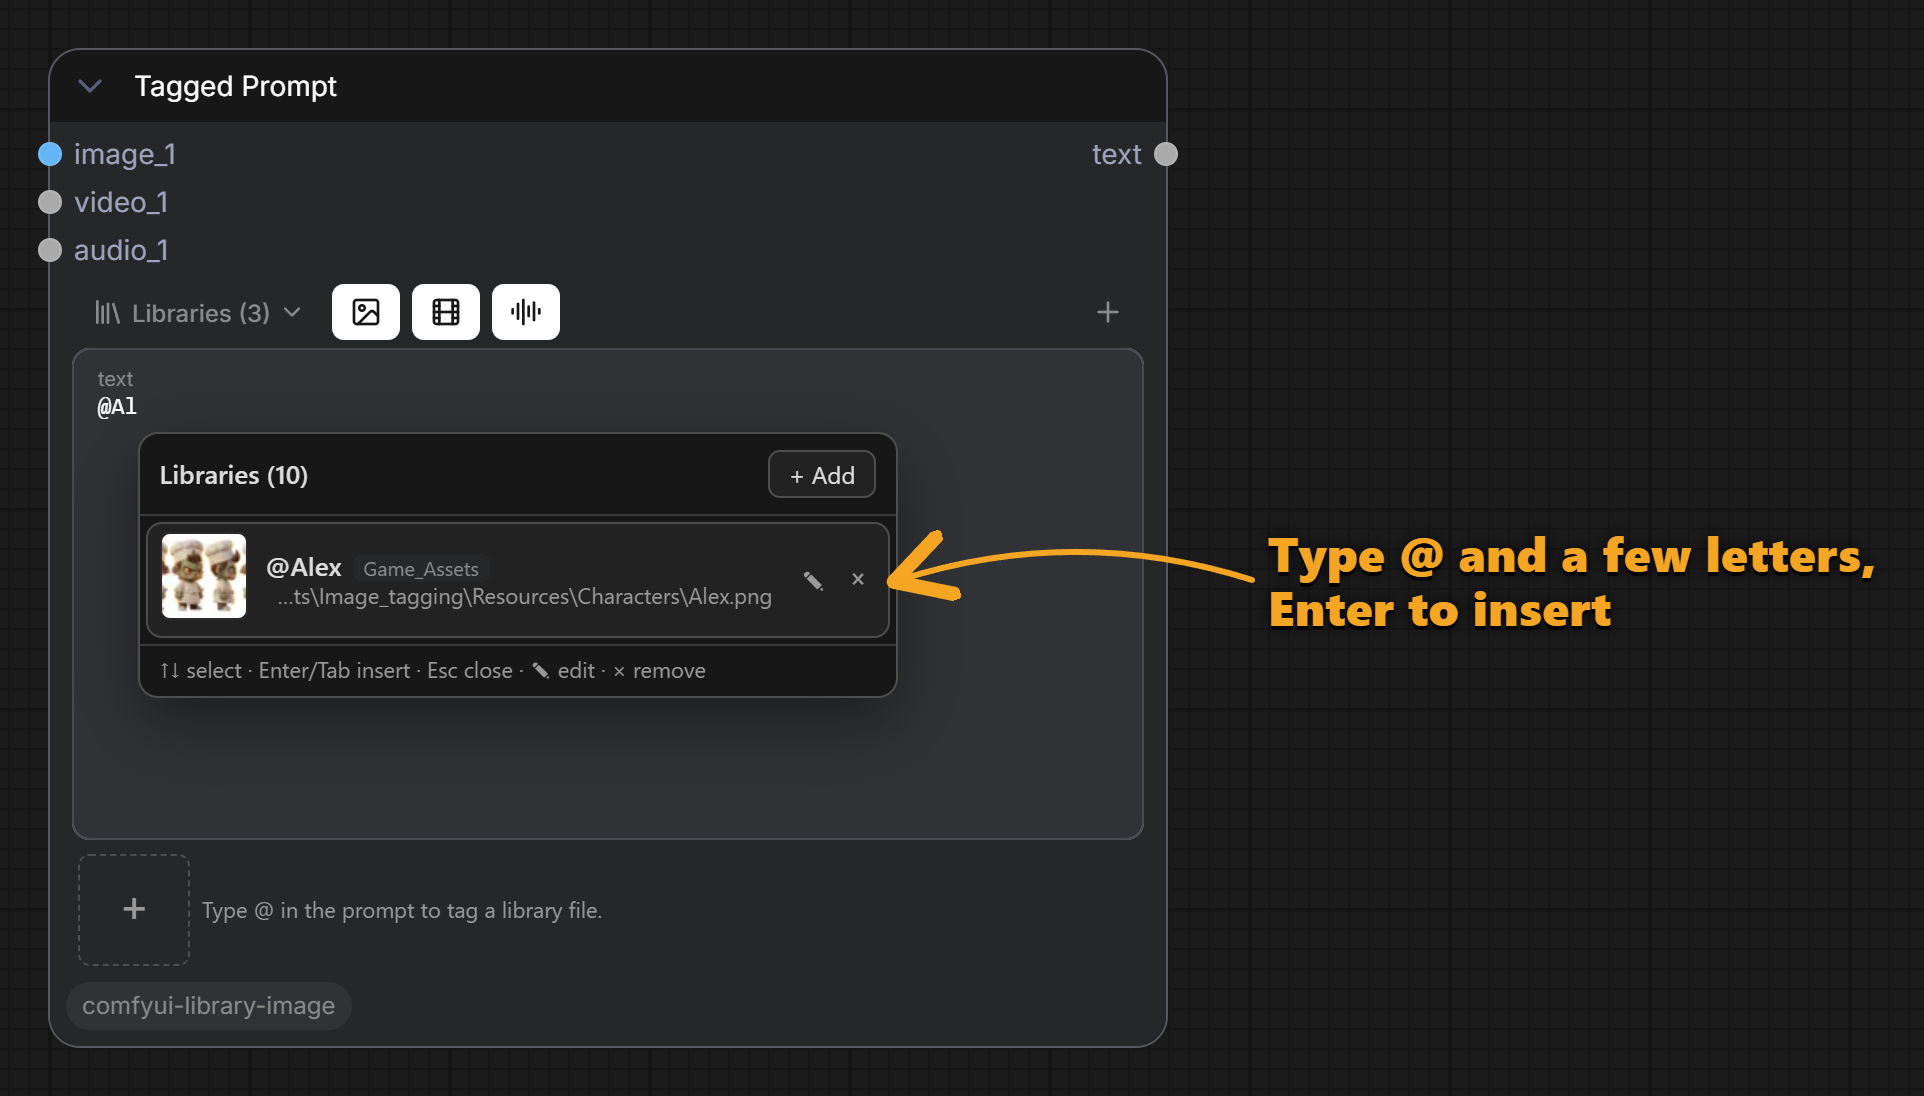
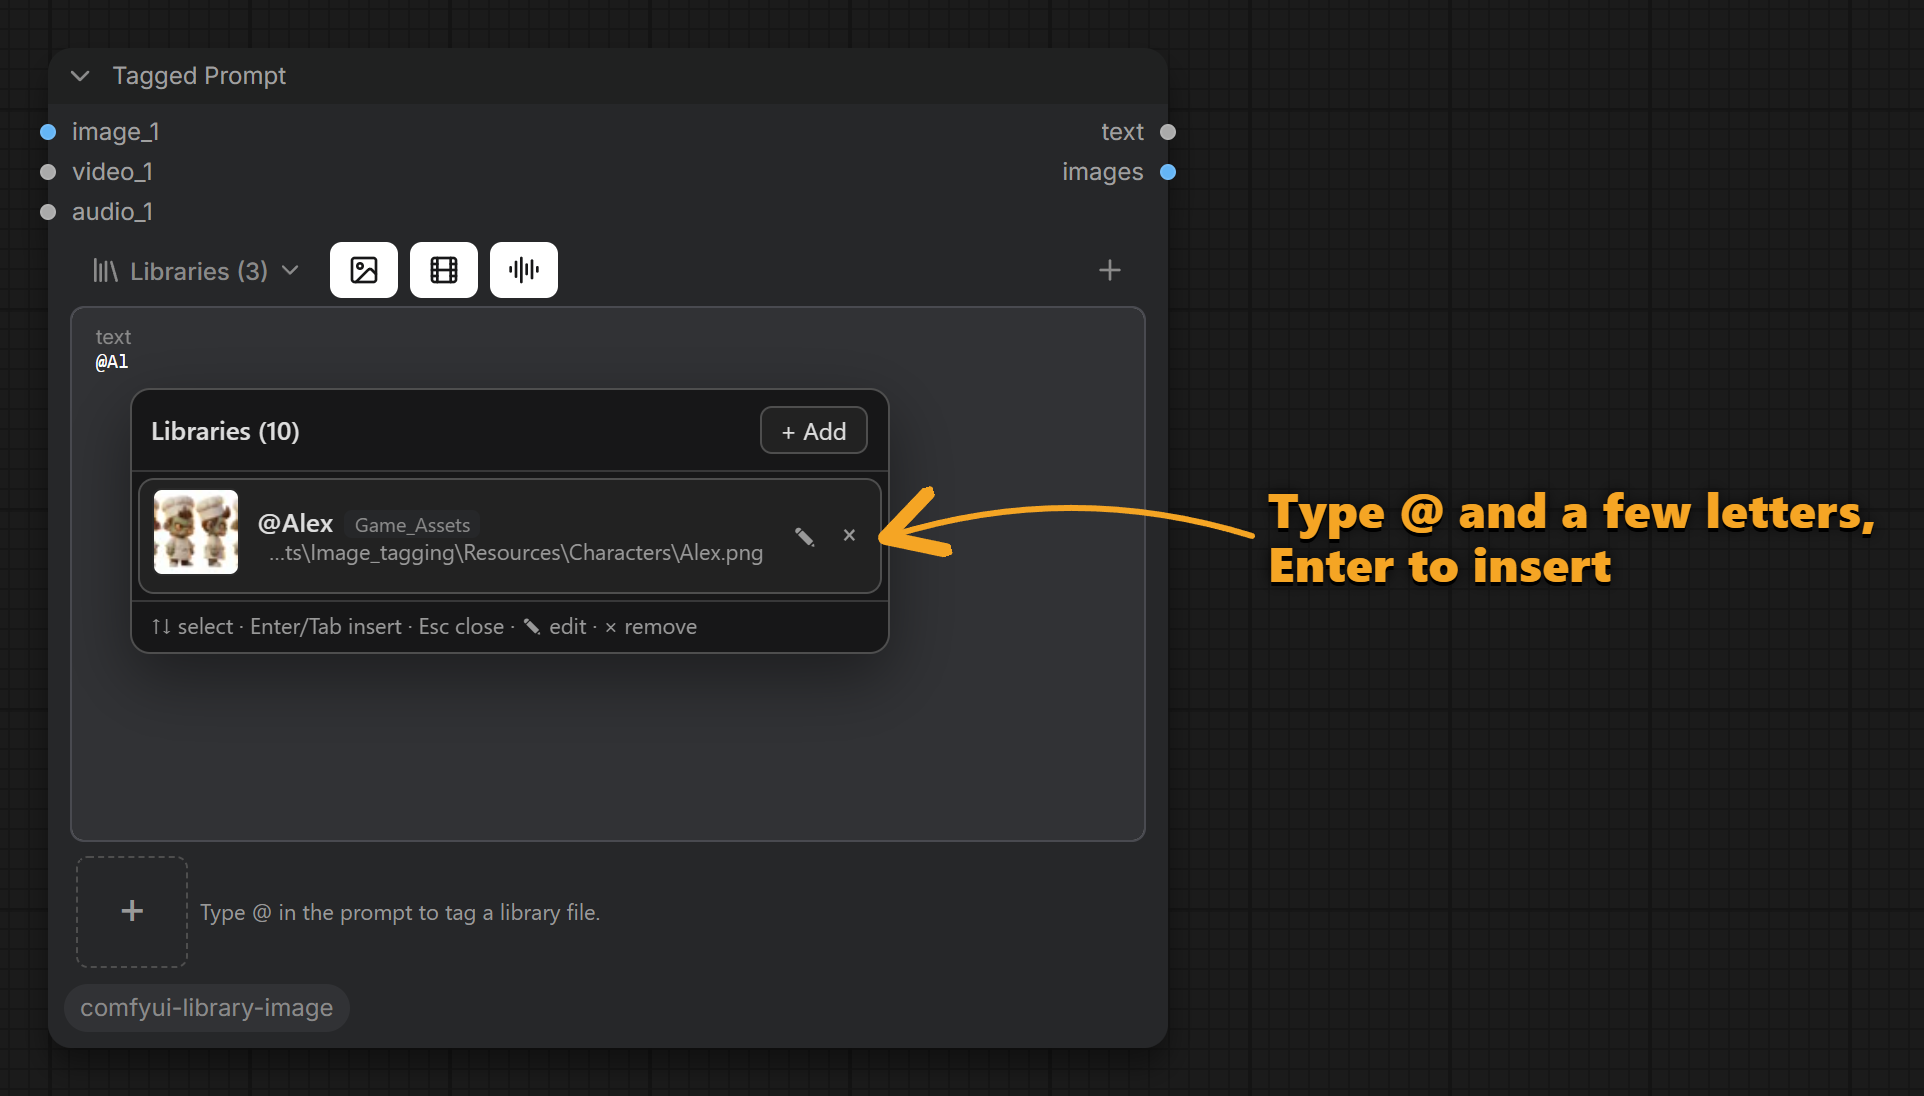
README: older models with one image input (Nano Banana Pro)
New section on wiring text -> prompt and images -> images, with
screenshot 13. Screenshots 00-12 re-rendered with the current frontend.

diff --git a/README.md b/README.md
@@ -34,6 +34,7 @@ the same two nodes, however many references you use.
 - [Tag colors](#tag-colors)
 - [What happens when you queue](#what-happens-when-you-queue)
 - [Supported model nodes](#supported-model-nodes)
+- [Older models with one image input](#older-models-with-one-image-input)
 - [Files that aren't in a library](#files-that-arent-in-a-library)
 - [Outputs: every tagged file, and a batch](#outputs-every-tagged-file-and-a-batch)
 - [Libraries in detail](#libraries-in-detail)
@@ -199,13 +200,38 @@ Reference-to-video nodes (Seedance, MiniMax H3, Vidu, HeyGen) are told `Image 1`
 `Audio 1`; the others `image 1`.
 
 **Models with one `images` batch input** (Nano Banana Pro, Nano Banana, …): connect the Tagged Prompt's
-`images` output too, see [Outputs](#outputs-every-tagged-file-and-a-batch).
+`images` output too, see [Older models with one image input](#older-models-with-one-image-input).
 
 **Not supported:** nodes with a single image input, or one batch input, such as **LTX 2.5** (API: Image /
 Audio to Video), the **LTX-2** open-model nodes, and the **MiniMax H3** open model (Reference to Video takes
 `ref_images` as one batch). Wire files into those by hand (the `@name` outputs help), or try the `images`
 batch output where the model accepts a batch. A Tagged Prompt with `@tags` whose text reaches only such a
 node, with none of its outputs used, won't queue rather than send raw tags.
+
+## Older models with one image input
+
+Using an old reliable model like **Nano Banana Pro**, with just one `images` input? No problem. These
+models take all their reference images as one batch, so the Tagged Prompt can't fill their inputs on its
+own. That's what its **`images`** output is for. Connect two wires:
+
+1. **`text`** → the model's **`prompt`**
+2. **`images`** → the model's **`images`**
+
+<img src="docs/images/13_one_image_input_models.png" width="760" alt="Tagged Prompt wired to Nano Banana Pro: text into prompt, images into images">
+
+That's it. When you queue:
+
+- The `images` output becomes a batch of every tagged image, in the order of the numbers on the outputs
+  (`@Alex (1)` first, `@Sir_Josef (2)` second, …) and under the thumbnails.
+- The prompt is rewritten to match: `@Alex` becomes "image 1", `@Sir_Josef` "image 2", and so on.
+- A batch needs one size for all images, so each image is **fitted inside the size of image 1 and padded**
+  (black bars). Nothing is cropped away.
+
+**Want control over the resizing?** Skip `images` and use the separate `@name` outputs instead: resize,
+crop or pad each image your way, then batch them with your own nodes, in the order of their numbers.
+
+**Forgot the `images` wire?** The queue is refused with a message saying the model gets the text but none
+of the tagged files, rather than running without your references.
 
 ## Files that aren't in a library
 
@@ -248,16 +274,9 @@ files alike, plus one **`images`** output with all tagged images as a batch. The
 where that file goes: **`@Coin (1)`** is `image_1` (`(2)` is `image_2`, …). The numbers follow First/Last
 and match the numbers under the thumbnails and the "image 1, image 2…" in the prompt.
 
-**For models with a single `images` input** (Nano Banana Pro, Nano Banana, and other models that take a
-batch instead of growing inputs), connect two wires:
-
-- `text` → the model's `prompt`
-- `images` → the model's `images`
-
-The prompt is rewritten in the batch's order ("image 1" is the first image of the batch), so the numbers
-line up. The batch makes every image the size of image 1 by **fitting it inside and padding** (black
-bars), so nothing is cut off. If you'd rather resize or crop each image yourself, use the separate
-`@name` outputs instead, and batch them with your own nodes in the order of their numbers.
+The `images` output is made for models with a single `images` input (Nano Banana Pro, …): see
+[Older models with one image input](#older-models-with-one-image-input). Images are padded to the size of
+image 1; for your own resizing, batch the `@name` outputs yourself.
 
 The `@name` outputs also work anywhere else an image (video, audio) goes: previews, upscalers,
 IP-Adapter, … An output that is wired to something stays even if its tag is removed from the text.

diff --git a/tools/screenshots/README.md b/tools/screenshots/README.md
@@ -7,7 +7,7 @@ redone after every UI change with one command:
 node tools/screenshots/make_screenshots.mjs
 ```
 
-It writes `00_…png` to `12_…png` into `docs/images/` (the images the main README shows) using the demo files in
+It writes `00_…png` to `13_…png` into `docs/images/` (the images the main README shows) using the demo files in
 `../Resources/{Characters,Environments,Icons}`. Options:
 
 | Option | Default | |
